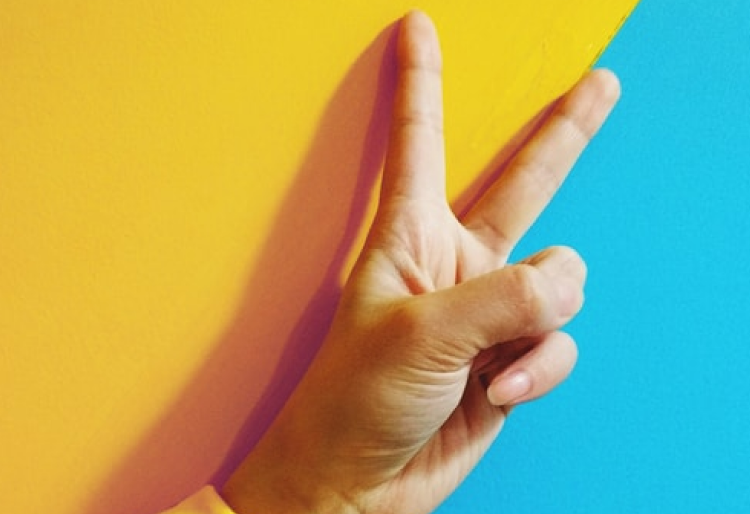
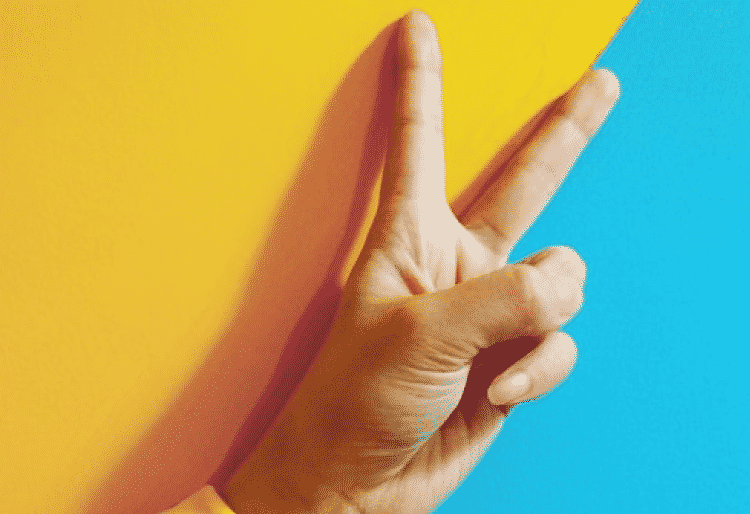
updates images with a more compression

diff --git a/src/components/NavBar.js b/src/components/NavBar.js
@@ -1,54 +1,25 @@
 import React, { useEffect, useState } from "react";
-import Home from "./Home";
 import {
-  Route,
-  Switch,
   useHistory,
   useParams,
   withRouter,
   useLocation,
 } from "react-router-dom";
-import Resume from "./Resume";
-import Portfolio from "./Portfolio";
 
-import MobileRightMenuSlider from "@material-ui/core/Drawer";
-import { Link } from "react-router-dom";
 import {
-  Container,
   AppBar,
   Toolbar,
-  ListItem,
   IconButton,
-  ListItemText,
-  ListItemIcon,
-  Avatar,
-  Divider,
-  List,
   Typography,
-  Box,
-  Drawer,
-  Button,
   MenuItem,
   Menu,
 } from "@material-ui/core";
-import {
-  ArrowBack,
-  AssignmentInd,
-  Home as HomeIcon,
-  Apps,
-  ContactMail,
-  Menu as MenuIcon,
-} from "@material-ui/icons";
-
-import InboxIcon from "@material-ui/icons/MoveToInbox";
-import MailIcon from "@material-ui/icons/Mail";
+import { Menu as MenuIcon } from "@material-ui/icons";
 
 import { makeStyles, useTheme } from "@material-ui/core/styles";
 import useMediaQuery from "@material-ui/core/useMediaQuery";
 import { menuItems } from "./menuItems";
 
-import cedric from "../assets/images/cedric-winbush-wbg.jpg";
-import { render } from "@testing-library/react";
 //CSS Styles
 
 const drawerWidth = 240;
@@ -138,9 +109,9 @@ const NavBar = () => {
     setAnchorEl(null);
   };
 
-  const handleButtonClick = (pageURL) => {
-    history.push(pageURL);
-  };
+  // const handleButtonClick = (pageURL) => {
+  //   history.push(pageURL);
+  // };
 
   // const [state, setState] = useState({
   //   right: false

diff --git a/src/components/SideBar.js b/src/components/SideBar.js
@@ -1,17 +1,10 @@
-import React, { useState } from "react";
-import Home from "./Home";
-import { useHistory } from "react-router-dom";
-import Resume from "./Resume";
-import Portfolio from "./Portfolio";
+import React from "react";
 
-import MobileRightMenuSlider from "@material-ui/core/Drawer";
-import { Link } from "react-router-dom";
+import { useHistory } from "react-router-dom";
+
 import {
-  Container,
-  AppBar,
   Toolbar,
   ListItem,
-  IconButton,
   ListItemText,
   ListItemIcon,
   Avatar,
@@ -21,15 +14,7 @@ import {
   Box,
   Drawer as MUIDrawer,
 } from "@material-ui/core";
-import {
-  ArrowBack,
-  AssignmentInd,
-  Home as HomeIcon,
-  Apps,
-  ContactMail,
-} from "@material-ui/icons";
 
-import InboxIcon from "@material-ui/icons/MoveToInbox";
 import MailIcon from "@material-ui/icons/Mail";
 
 import { makeStyles } from "@material-ui/core/styles";
@@ -81,9 +66,9 @@ const useStyles = makeStyles((theme) => ({
     color: "tan",
     textAlign: "center",
     margin: "10px auto",
-    display: "flex",  
+    display: "flex",
     justifyContent: "space-around",
-    alignItems: "center"
+    alignItems: "center",
   },
 }));
 

diff --git a/src/components/portfolioItems.js b/src/components/portfolioItems.js
@@ -1,4 +1,3 @@
-import React from "react";
 import signlingo from "../assets/images/signlingo.png";
 import betterProfessor from "../assets/images/teaching.jpg";
 import choreTracker from "../assets/images/washing-dishes.jpg";
@@ -7,6 +6,7 @@ import weightLifting from "../assets/images/workout.jpg";
 export const portfolioItems = [
   {
     portfolioImage: signlingo,
+   
     portfolioText: "A mobile first web app for teaching a gamified ASL curriculum",
     portfolioTitle: "SignLingo",
     portfolioStack: "ReactJS | Redux | Node.js | Express.js | Postgres | Material UI | SASS",
@@ -18,6 +18,7 @@ export const portfolioItems = [
   {
     portfolioImage: betterProfessor,
     portfolioText: "A web app to allow professors to track there students project deadlines",
+    portfolioImageAlt: "Photo by Product School on Unsplash",
     portfolioTitle: "Better Professor",
     portfolioStack: "React | ContextAPI | Material UI | Styled-Compoents | Node | Express",
     portfolioGithub: "https://github.com/BW-A-Better-Professor-App/Better-Professor-FE",

diff --git a/src/components/Portfolio.js b/src/components/Portfolio.js
@@ -1,6 +1,5 @@
 import React from "react";
 import { makeStyles } from "@material-ui/core";
-import signlingo from "../assets/images/signlingo.png";
 import {
   Box,
   Grid,
@@ -9,7 +8,6 @@ import {
   CardActions,
   CardContent,
   CardMedia,
-  Button,
   Typography,
   Link,
 } from "@material-ui/core";
@@ -92,10 +90,15 @@ const Portfolio = () => {
         {portfolioItems.map((item, index) => (
           <Grid className={classes.card} key={index} item xs={12} sm={6} md={3}>
             <Card>
-              <CardActionArea>
+              <CardActionArea
+                // component={Link}
+                // href={item.portfolioLiveLink}
+                // target="_blank"
+        
+              >
                 <CardMedia
                   component="img"
-                  alt="SignLingo"
+                  alt={item?.portfolioImageAlt || item?.portfolioTitle}
                   height="140"
                   image={item.portfolioImage}
                 />

diff --git a/src/components/SendConfirmation.js b/src/components/SendConfirmation.js
@@ -1,21 +1,17 @@
-import React, { useState, useEffect } from "react";
+import React, { useState} from "react";
 import emailjs from "emailjs-com";
-import SocialButtons from "./SocialButtons";
 
 import { useHistory } from "react-router-dom";
 // import axios from "axios";
-import Button from "@material-ui/core/Button";
-import CssBaseline from "@material-ui/core/CssBaseline";
+
 import TextField from "@material-ui/core/TextField";
-import Grid from "@material-ui/core/Grid";
+
 import Typography from "@material-ui/core/Typography";
 import { makeStyles, withStyles } from "@material-ui/core/styles";
 import Container from "@material-ui/core/Container";
-import { Link } from "react-router-dom";
 
-import { Form, Formik, FormikHelpers, FormikProps } from "formik";
 import * as yup from "yup";
-import { tan } from "@material-ui/core/colors";
+
 
 const SERVICE_ID = process.env.REACT_APP_SERVICE_ID;
 const TEMPLATE_ID = process.env.REACT_APP_TEMPLATE_ID;

diff --git a/src/App.js b/src/App.js
@@ -4,12 +4,11 @@ import CssBaseline from "@material-ui/core/CssBaseline";
 import { Route, Switch } from "react-router-dom";
 
 import Home from "./components/Home";
-import Resume from "./components/Resume";
 import Portfolio from "./components/Portfolio";
 import Contact from "./components/Contact";
 import NavBar from "./components/NavBar";
 import SideBar from "./components/SideBar";
-import { makeStyles, useTheme } from "@material-ui/core/styles";
+import {  useTheme } from "@material-ui/core/styles";
 import useMediaQuery from "@material-ui/core/useMediaQuery";
 
 function App() {

diff --git a/src/components/HomeBody.js b/src/components/HomeBody.js
@@ -4,19 +4,13 @@ import {
   Avatar,
   Grid,
   Box,
-  Link,
-  IconButton,
-  Button,
 } from "@material-ui/core";
 import { makeStyles } from "@material-ui/core/styles";
 import cedric from "../assets/images/cedric-winbush-wbg.jpg";
 import Typed from "react-typed";
 // import { loadCSS } from 'fg-loadcss';
 // import classNames from "classnames";
-import LinkedInIcon from "@material-ui/icons/LinkedIn";
-import GitHubIcon from "@material-ui/icons/GitHub";
 
-import Icon from "@material-ui/core/Icon";
 import SocialButtons from "./SocialButtons";
 
 // CSS Styles

diff --git a/src/components/menuItems.js b/src/components/menuItems.js
@@ -1,17 +1,11 @@
 import React from "react";
 
 import {
-  ArrowBack,
-  AssignmentInd,
   Home as HomeIcon,
   Apps,
   ContactMail,
 } from "@material-ui/icons";
 
-import InboxIcon from "@material-ui/icons/MoveToInbox";
-import MailIcon from "@material-ui/icons/Mail";
-
-import { makeStyles } from "@material-ui/core/styles";
 
 export const menuItems = [
   {

diff --git a/src/components/Resume.js b/src/components/Resume.js
@@ -1,7 +1,6 @@
 import React from "react";
 import { makeStyles } from "@material-ui/core/styles";
 import { Typography, Box } from "@material-ui/core";
-import NavBar from "./NavBar";
 
 const useStyles = makeStyles((theme) => ({
   mainContainer: {

diff --git a/src/components/ParticleComponent.js b/src/components/ParticleComponent.js
@@ -1,4 +1,4 @@
-import React, { useState } from 'react'
+import React from 'react'
 import Particles from "react-particles-js";
 
 import { makeStyles } from "@material-ui/styles";
